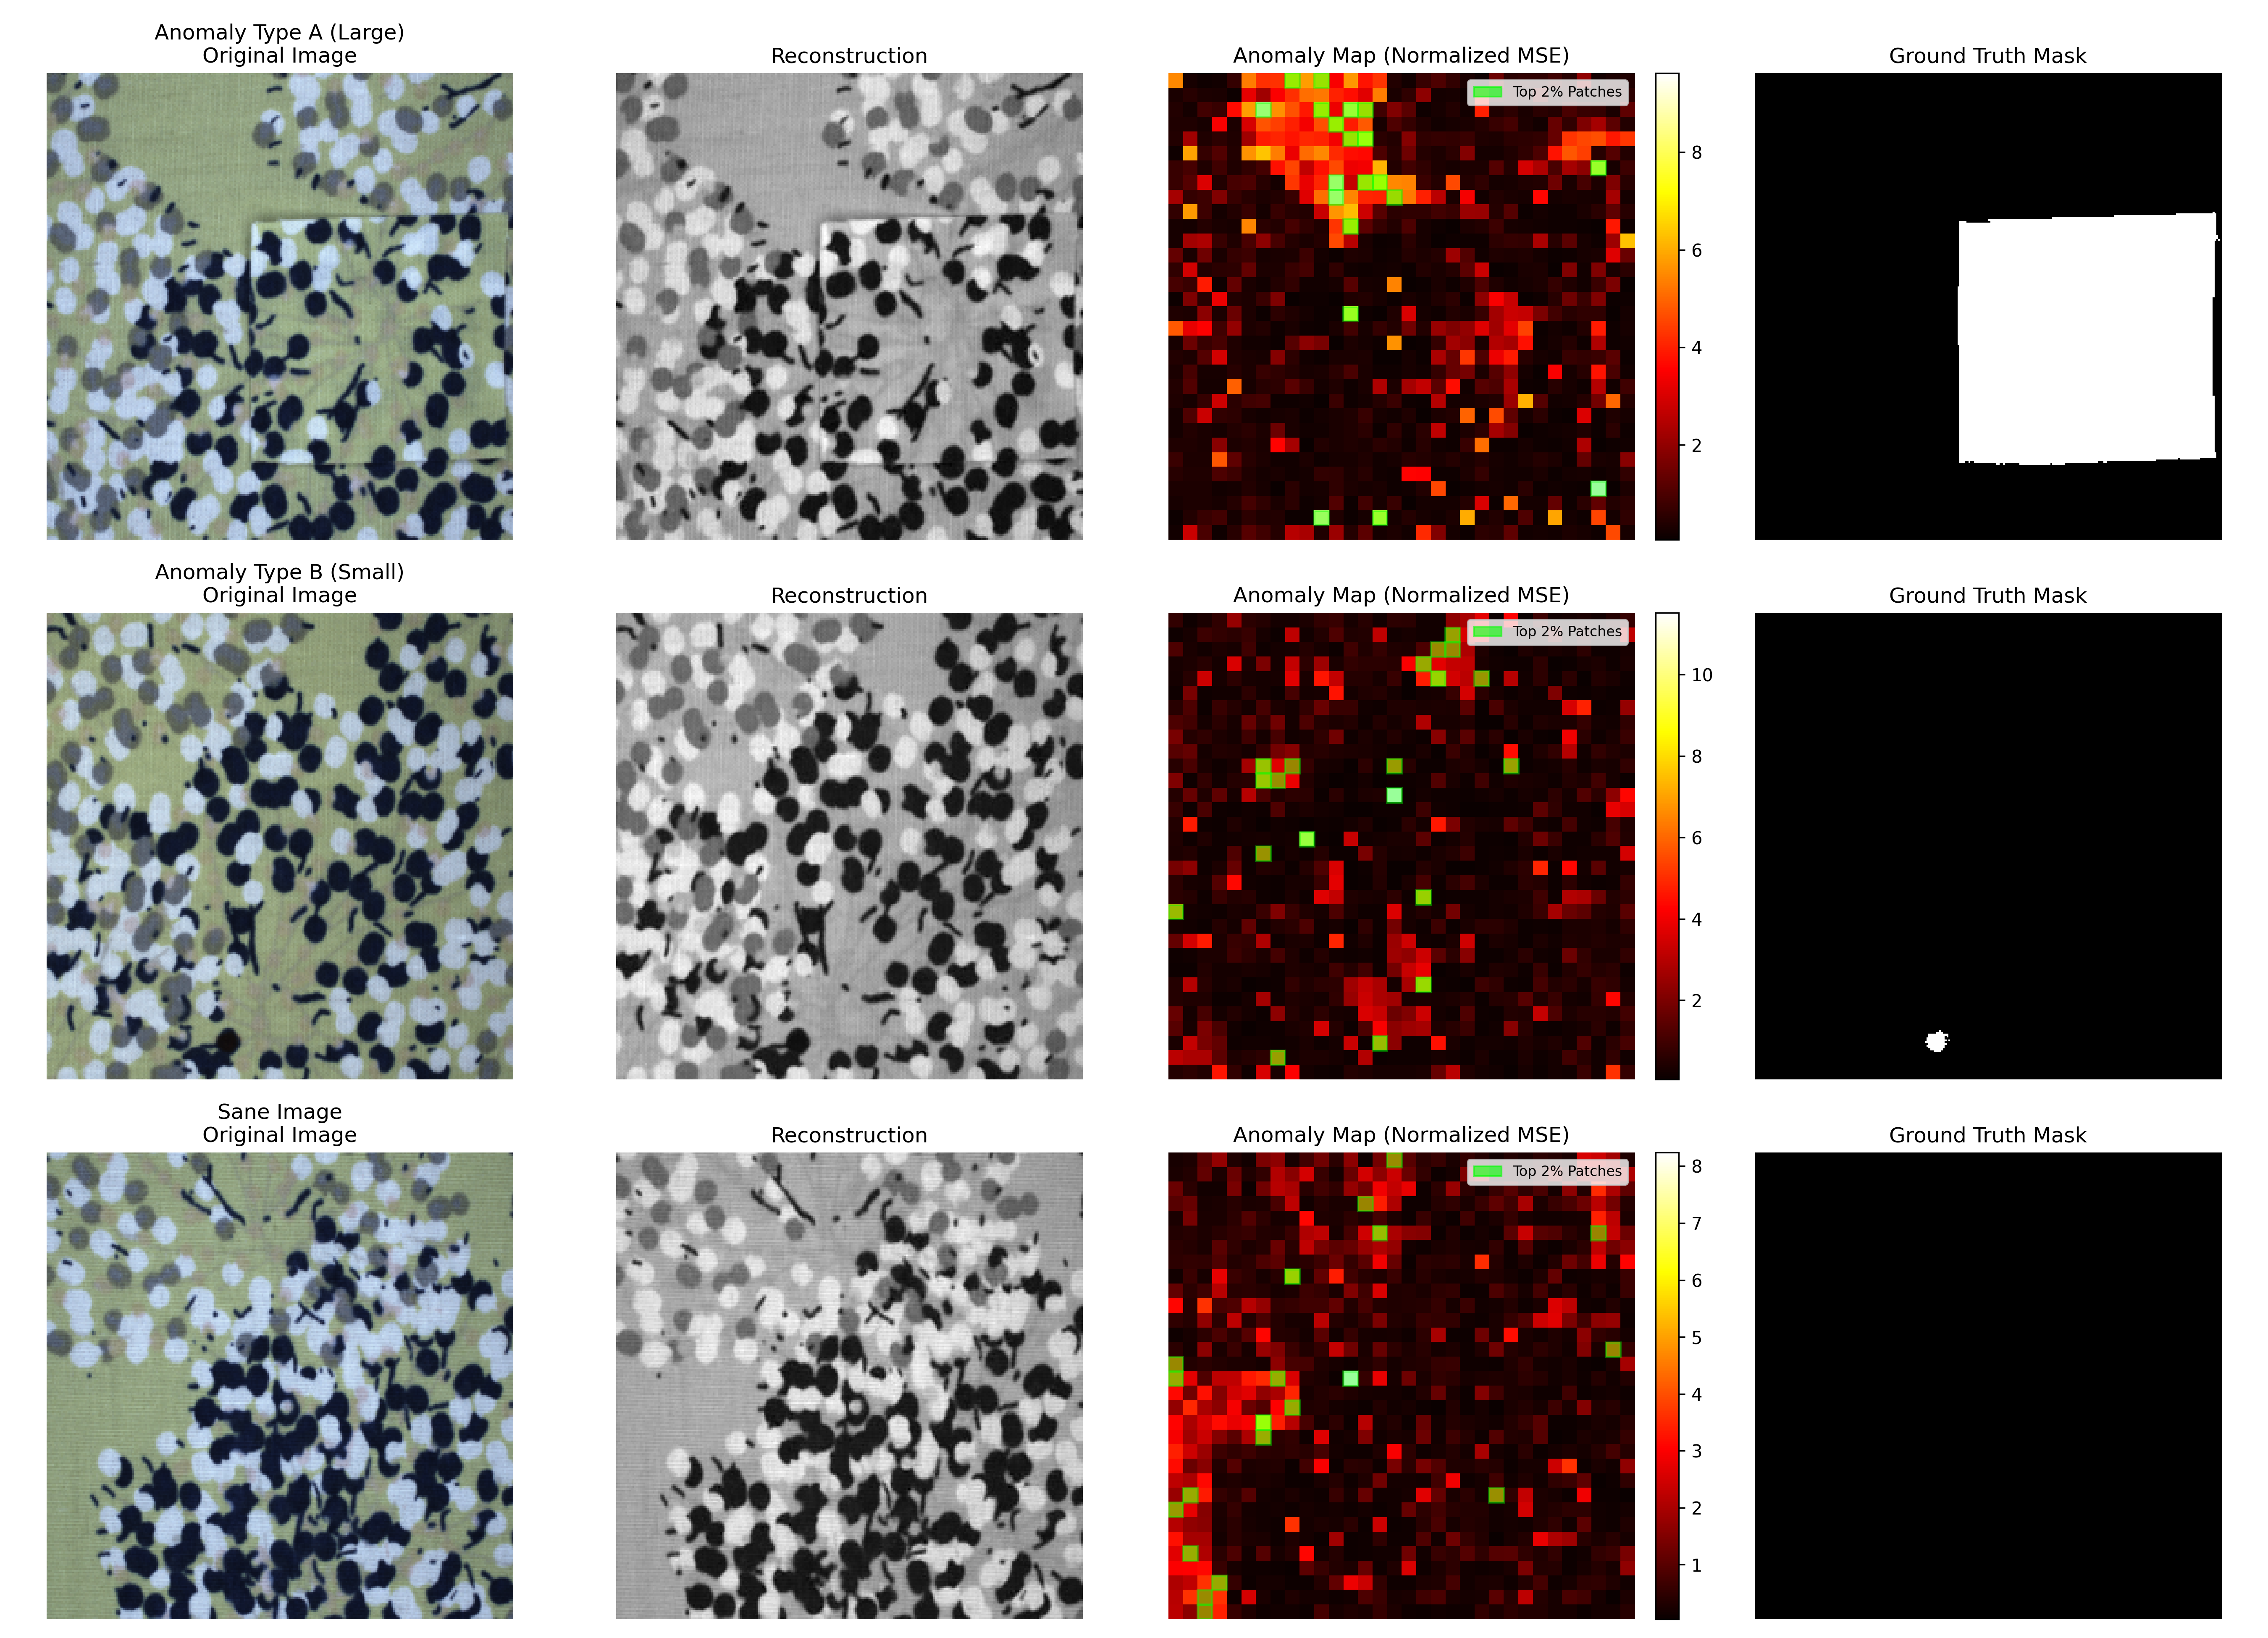
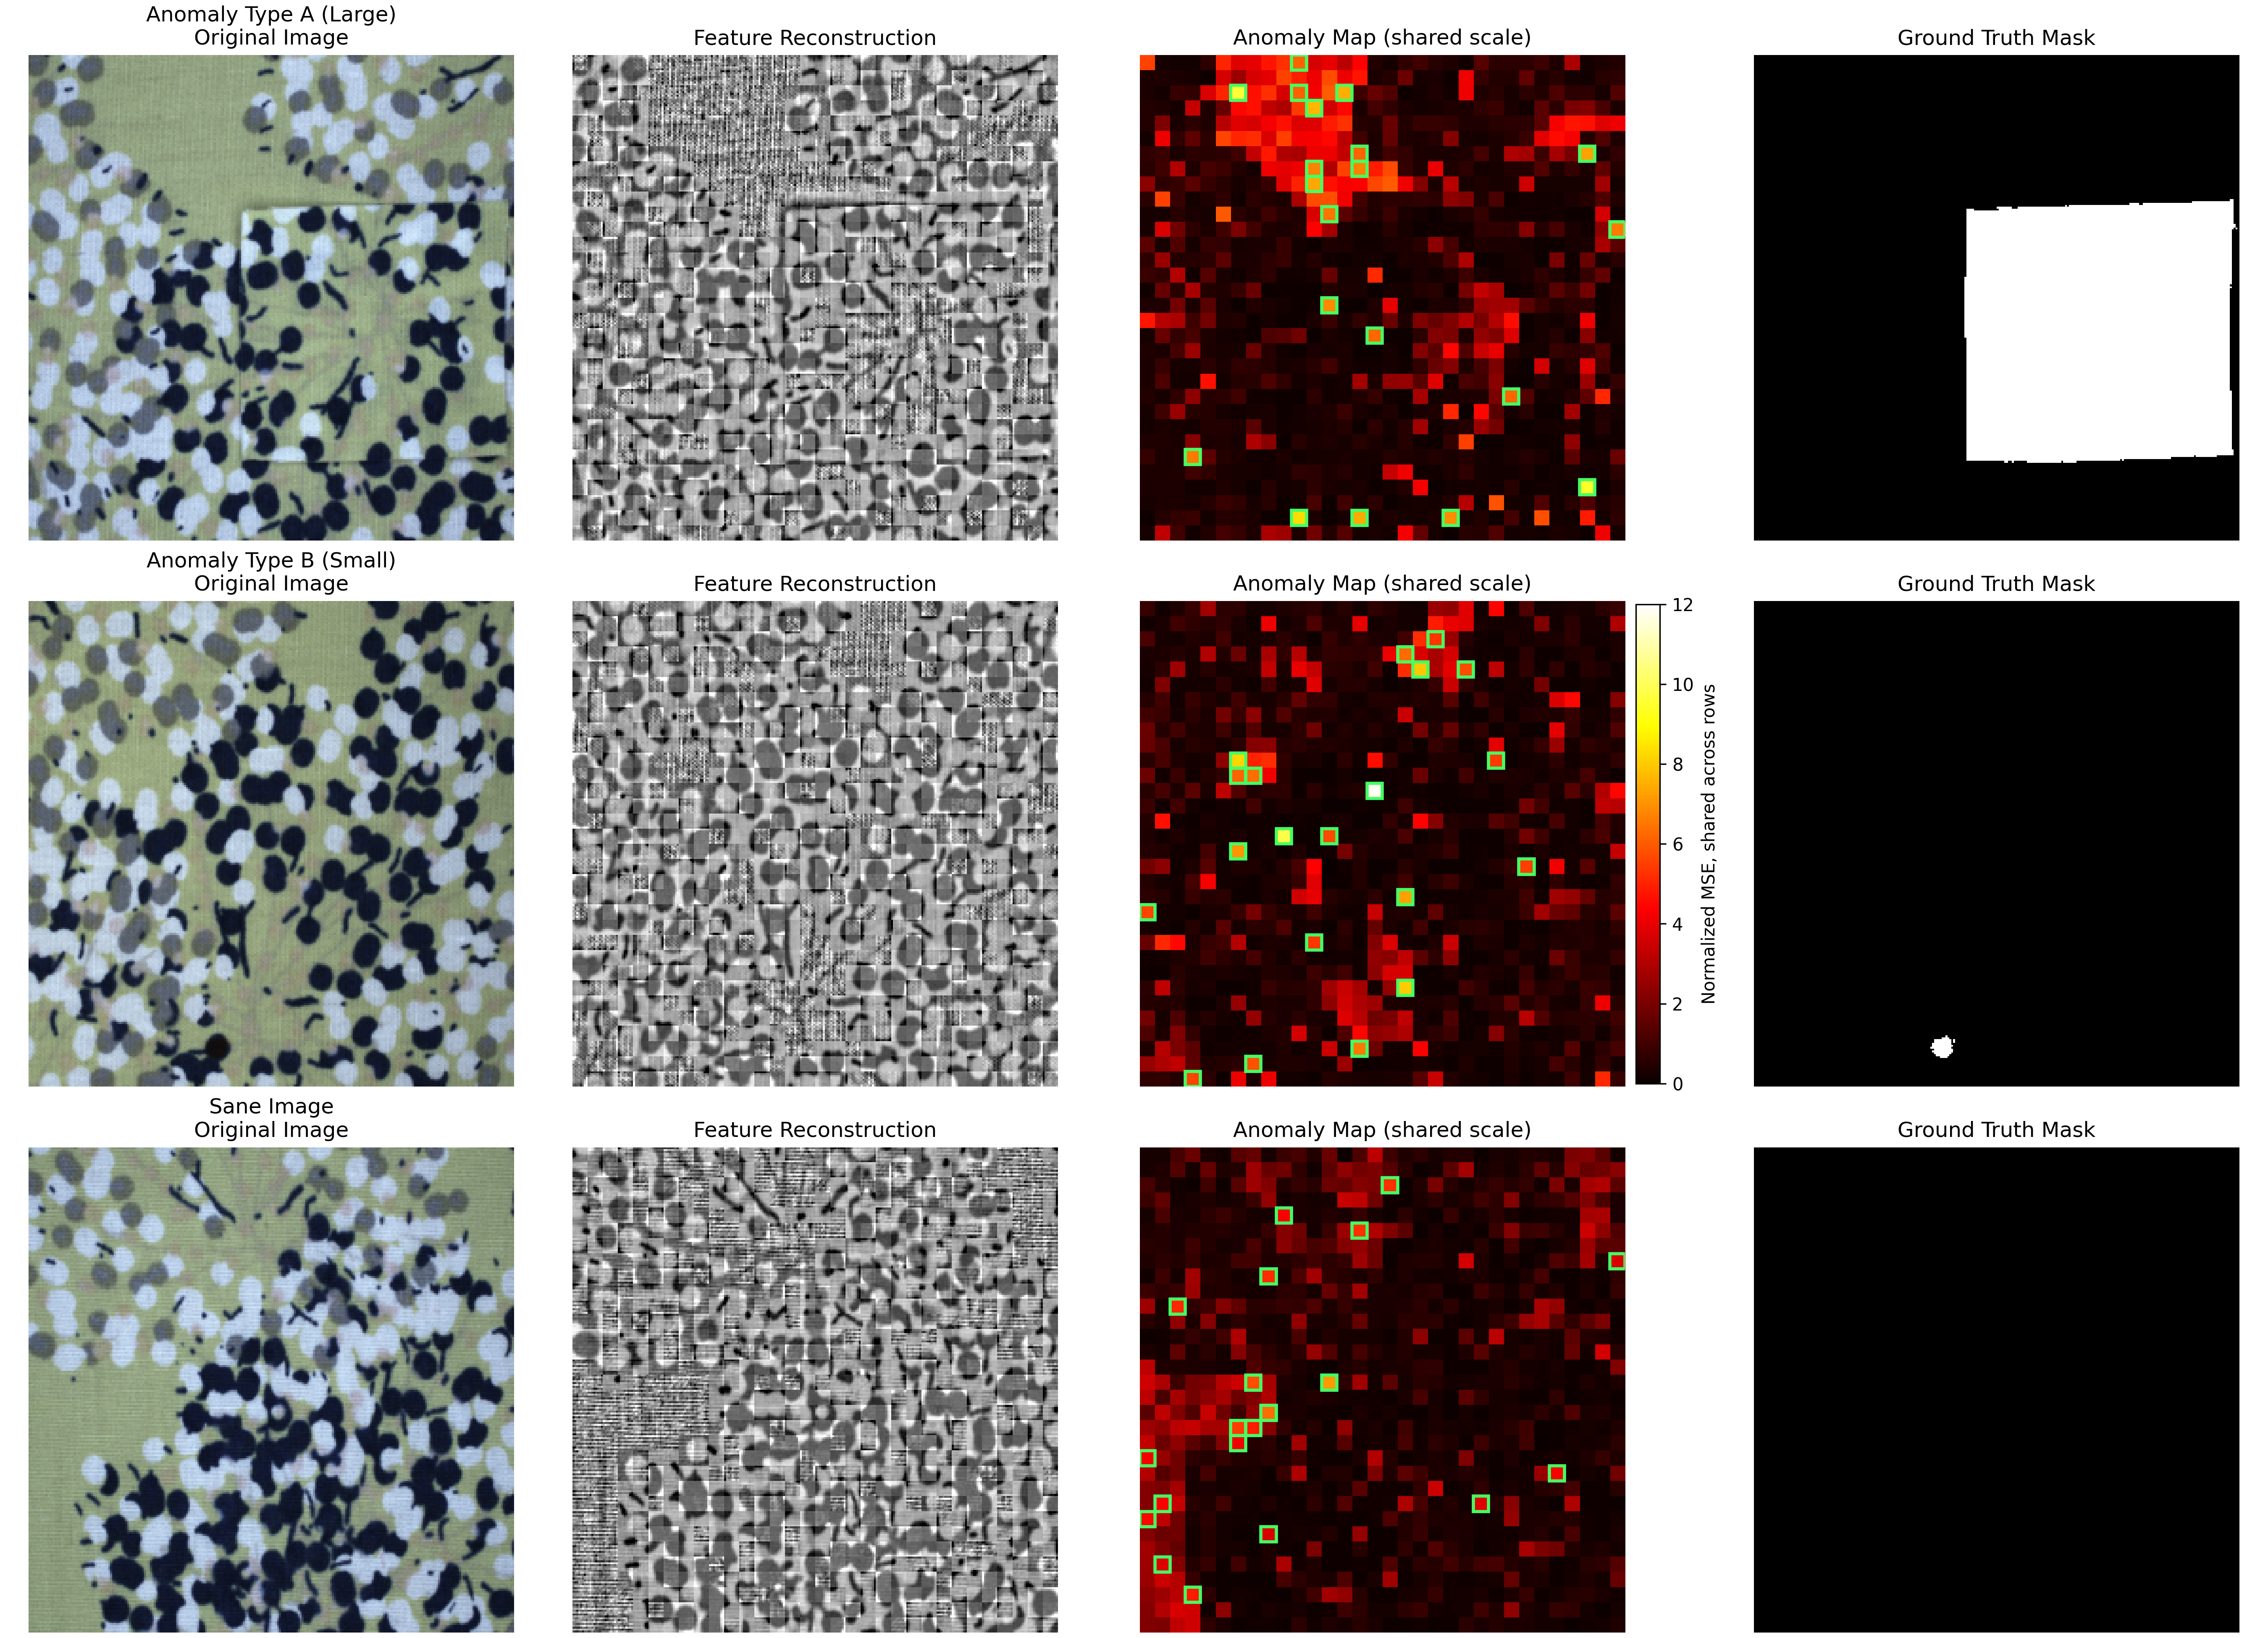
presentazione

diff --git a/scripts/generate_vae_diagnostics_figure.py b/scripts/generate_vae_diagnostics_figure.py
@@ -1,0 +1,204 @@
+from pathlib import Path
+import sys
+
+import matplotlib
+
+matplotlib.use("Agg")
+
+import matplotlib.patches as patches
+import matplotlib.pyplot as plt
+import numpy as np
+import torch
+from PIL import Image
+
+ROOT = Path(__file__).resolve().parents[1]
+sys.path.insert(0, str(ROOT))
+
+from vae import (
+    FeatureVAE,
+    cache_images,
+    crop_fraction,
+    hidden_dim,
+    image_size,
+    latent_dim,
+    patch_errors,
+    patch_features,
+    patch_size,
+)
+
+
+DATA_ROOT = ROOT / "data" / "fabric"
+WEIGHTS_PATH = ROOT / "results" / "vae.pt"
+OUTPUT_PATHS = [
+    ROOT / "results" / "vae_reconstruction_comparison.png",
+    ROOT / "slides" / "imgs" / "vae_reconstruction_comparison.png",
+]
+
+EXAMPLES = [
+    (
+        "Anomaly Type A (Large)",
+        DATA_ROOT / "test_public" / "bad" / "000_overexposed.png",
+        DATA_ROOT / "test_public" / "ground_truth" / "bad" / "000_overexposed_mask.png",
+    ),
+    (
+        "Anomaly Type B (Small)",
+        DATA_ROOT / "test_public" / "bad" / "012_shift_1.png",
+        DATA_ROOT / "test_public" / "ground_truth" / "bad" / "012_shift_1_mask.png",
+    ),
+    (
+        "Sane Image",
+        DATA_ROOT / "test_public" / "good" / "000_overexposed.png",
+        None,
+    ),
+]
+
+
+def load_preprocessed_image(path: Path) -> torch.Tensor:
+    image = Image.open(path).convert("RGB")
+    width, height = image.size
+    image = image.crop(
+        (
+            int(width * (1 - crop_fraction) / 2),
+            int(height * (1 - crop_fraction) / 2),
+            int(width * (1 + crop_fraction) / 2),
+            int(height * (1 + crop_fraction) / 2),
+        )
+    )
+    image = image.resize((image_size, image_size), Image.Resampling.BILINEAR)
+    return torch.from_numpy(np.array(image)).permute(2, 0, 1).float() / 255.0
+
+
+def load_preprocessed_mask(path: Path | None) -> np.ndarray:
+    if path is None:
+        return np.zeros((image_size, image_size), dtype=np.float32)
+
+    mask = Image.open(path).convert("L")
+    width, height = mask.size
+    mask = mask.crop(
+        (
+            int(width * (1 - crop_fraction) / 2),
+            int(height * (1 - crop_fraction) / 2),
+            int(width * (1 + crop_fraction) / 2),
+            int(height * (1 + crop_fraction) / 2),
+        )
+    )
+    mask = mask.resize((image_size, image_size), Image.Resampling.NEAREST)
+    return np.asarray(mask, dtype=np.float32) / 255.0
+
+
+def stitch_gray_patches(features: torch.Tensor, grid_size: int) -> np.ndarray:
+    gray = features[:, : patch_size * patch_size].reshape(
+        grid_size, grid_size, patch_size, patch_size
+    )
+    image = gray.permute(0, 2, 1, 3).reshape(image_size, image_size).numpy()
+    p1, p99 = np.percentile(image, [1, 99])
+    return np.clip((image - p1) / max(p99 - p1, 1e-6), 0, 1)
+
+
+def draw_top_patch_boxes(ax, heatmap: np.ndarray, fraction: float = 0.02) -> None:
+    grid_size = heatmap.shape[0]
+    k = max(1, int(heatmap.size * fraction))
+    top_indices = np.argpartition(heatmap.ravel(), -k)[-k:]
+
+    for idx in top_indices:
+        row, col = divmod(int(idx), grid_size)
+        ax.add_patch(
+            patches.Rectangle(
+                (col - 0.5, row - 0.5),
+                1,
+                1,
+                linewidth=1.8,
+                edgecolor="#45ff63",
+                facecolor="none",
+            )
+        )
+
+
+def main() -> None:
+    device = "cpu"
+    train_images, _, _ = cache_images(
+        "train", str(DATA_ROOT), device=device, chunk_size=4
+    )
+    example_images = torch.stack(
+        [load_preprocessed_image(path) for _, path, _ in EXAMPLES]
+    )
+    example_masks = [load_preprocessed_mask(mask_path) for _, _, mask_path in EXAMPLES]
+
+    train_features_raw, n_train, train_ppi = patch_features(
+        train_images, patch_size, device
+    )
+    example_features_raw, n_examples, example_ppi = patch_features(
+        example_images, patch_size, device
+    )
+    feature_mean = train_features_raw.mean(dim=0, keepdim=True)
+    feature_std = train_features_raw.std(dim=0, keepdim=True).clamp_min(1e-4)
+    train_features = (train_features_raw - feature_mean) / feature_std
+    example_features = (example_features_raw - feature_mean) / feature_std
+
+    model = FeatureVAE(train_features.shape[1], hidden_dim, latent_dim).to(device)
+    model.load_state_dict(torch.load(WEIGHTS_PATH, map_location=device))
+    model.eval()
+
+    train_loss = patch_errors(model, train_features, n_train, train_ppi, device)
+    normalizer = train_loss.mean(dim=0, keepdim=True).clamp_min(1e-6)
+    normalized_loss = patch_errors(
+        model, example_features, n_examples, example_ppi, device
+    ) / normalizer
+
+    with torch.no_grad():
+        reconstructed_features = (
+            model.reconstruct(example_features).cpu() * feature_std + feature_mean
+        )
+
+    grid_size = image_size // patch_size
+    heatmaps = normalized_loss.reshape(n_examples, grid_size, grid_size).numpy()
+    reconstructions = [
+        stitch_gray_patches(
+            reconstructed_features[i * example_ppi : (i + 1) * example_ppi],
+            grid_size,
+        )
+        for i in range(n_examples)
+    ]
+    shared_vmax = float(np.ceil(heatmaps.max()))
+
+    fig, axes = plt.subplots(3, 4, figsize=(18, 13), constrained_layout=True)
+    heatmap_image = None
+
+    for row, ((label, _, _), image, reconstruction, heatmap, mask) in enumerate(
+        zip(EXAMPLES, example_images, reconstructions, heatmaps, example_masks)
+    ):
+        axes[row, 0].imshow(image.permute(1, 2, 0).numpy())
+        axes[row, 0].set_title(f"{label}\nOriginal Image")
+        axes[row, 0].axis("off")
+
+        axes[row, 1].imshow(reconstruction, cmap="gray", vmin=0, vmax=1)
+        axes[row, 1].set_title("Feature Reconstruction")
+        axes[row, 1].axis("off")
+
+        heatmap_image = axes[row, 2].imshow(
+            heatmap,
+            cmap="hot",
+            interpolation="nearest",
+            vmin=0,
+            vmax=shared_vmax,
+        )
+        draw_top_patch_boxes(axes[row, 2], heatmap)
+        axes[row, 2].set_title("Anomaly Map (shared scale)")
+        axes[row, 2].axis("off")
+
+        axes[row, 3].imshow(mask, cmap="gray", vmin=0, vmax=1)
+        axes[row, 3].set_title("Ground Truth Mask")
+        axes[row, 3].axis("off")
+
+    assert heatmap_image is not None
+    cbar = fig.colorbar(heatmap_image, ax=axes[:, 2], fraction=0.045, pad=0.02)
+    cbar.set_label("Normalized MSE, shared across rows")
+
+    for output_path in OUTPUT_PATHS:
+        output_path.parent.mkdir(parents=True, exist_ok=True)
+        fig.savefig(output_path, dpi=300)
+        print(f"Saved {output_path.relative_to(ROOT)}")
+
+
+if __name__ == "__main__":
+    main()

diff --git a/scripts/plot_fair_cae_bottleneck_ablation.py b/scripts/plot_fair_cae_bottleneck_ablation.py
@@ -1,0 +1,62 @@
+import json
+from pathlib import Path
+
+import matplotlib.pyplot as plt
+
+
+ROOT = Path(__file__).resolve().parents[1]
+DATA_JSON = ROOT / "slides" / "cae_bottleneck_auroc.json"
+OUT_FIG = ROOT / "slides" / "imgs" / "cae_bottleneck_auroc.png"
+
+
+def main():
+    with DATA_JSON.open("r") as f:
+        payload = json.load(f)
+
+    rows = payload["results"]
+    best_idx = max(range(len(rows)), key=lambda idx: rows[idx]["auroc"])
+    x = list(range(len(rows)))
+    y = [row["auroc"] for row in rows]
+    labels = [str(row["bottleneck_channels"]) for row in rows]
+
+    plt.rcParams.update(
+        {
+            "font.size": 10,
+            "axes.spines.top": False,
+            "axes.spines.right": False,
+        }
+    )
+    fig, ax = plt.subplots(figsize=(8.8, 4.6), dpi=180)
+    ax.plot(
+        x,
+        y,
+        color="#315c8a",
+        linewidth=2.2,
+        marker="o",
+        markersize=6,
+    )
+    ax.scatter(
+        [best_idx],
+        [y[best_idx]],
+        color="#d62728",
+        edgecolor="white",
+        linewidth=1.2,
+        s=95,
+        zorder=4,
+        label="Best AUROC",
+    )
+
+    ax.set_xticks(x)
+    ax.set_xticklabels(labels, rotation=35, ha="right")
+    ax.set_xlabel("Bottleneck capacity")
+    ax.set_ylabel("Image-level AUROC")
+    ax.set_ylim(max(0.45, min(y) - 0.04), min(1.0, max(y) + 0.06))
+    ax.grid(axis="y", alpha=0.25)
+    ax.legend(frameon=False, loc="best")
+    fig.tight_layout()
+    OUT_FIG.parent.mkdir(parents=True, exist_ok=True)
+    fig.savefig(OUT_FIG, bbox_inches="tight")
+
+
+if __name__ == "__main__":
+    main()

diff --git a/slides/main.tex b/slides/main.tex
@@ -262,6 +262,17 @@ Gio Formichella}
     \end{itemize}
 \end{frame}
 
+\begin{frame}{CAE - bottleneck capacity}
+    \begin{figure}
+        \centering
+        \includegraphics[width=0.86\textwidth]{imgs/cae_bottleneck_auroc.png}
+    \end{figure}
+    \begin{itemize}\footnotesize
+        \item Smaller bottlenecks force reconstruction of normal structure only.
+        \item More capacity can reconstruct defects too, reducing anomaly contrast.
+    \end{itemize}
+\end{frame}
+
 \begin{frame}{CAE - qualitative diagnosis}
     \begin{figure}
         \centering
@@ -365,14 +376,9 @@ Gio Formichella}
         \end{tabular}
         \caption{Held-out image-level scores}
     \end{table}
-    \begin{figure}
-        \centering
-        \includegraphics[width=0.70\textwidth]{imgs/vae_results_aligned.png}
-    \end{figure}
     \begin{itemize}\footnotesize
         \item Best setting: latent dimension 32, $\beta=10^{-3}$, denoising noise $\sigma=0.05$.
         \item Patch-feature modeling improves image-level ranking over the CAE baseline.
-        \item Red outline: ground-truth defect on the VAE error overlay.
     \end{itemize}
 \end{frame}
 
@@ -383,6 +389,7 @@ Gio Formichella}
     \end{figure}
     \begin{itemize}\footnotesize
         \item The VAE improves image-level ranking over the CAE, but localization remains noisy.
+        \item Heatmaps use a single shared color scale across all rows.
         \item Rare normal texture variations can receive high scores, creating false-positive patches.
     \end{itemize}
 \end{frame}
@@ -410,26 +417,6 @@ Gio Formichella}
         \item Removing gray intensities only drops AUROC from $0.80$ to $0.79$.
         \item FFT and gradient features carry most of the discriminative signal.
         \item Gray intensities still help slightly, probably by preserving local brightness and print-density changes.
-    \end{itemize}
-\end{frame}
-
-\begin{frame}{VAE - feature reconstruction}
-    \begin{figure}
-        \centering
-        \includegraphics[width=0.96\textwidth]{imgs/vae_feature_reconstructions_patches_1.png}
-    \end{figure}
-    \begin{itemize}\footnotesize
-        \item Green boxes mark the top $0.2\%$ highest-error patches used for image scoring.
-    \end{itemize}
-\end{frame}
-
-\begin{frame}{VAE - feature reconstruction}
-    \begin{figure}
-        \centering
-        \includegraphics[width=0.96\textwidth,trim=0 12 0 58,clip]{imgs/vae_feature_reconstructions_patches_2.png}
-    \end{figure}
-    \begin{itemize}\footnotesize
-        \item Error maps are computed on patch features, not on reconstructed RGB pixels.
     \end{itemize}
 \end{frame}
 